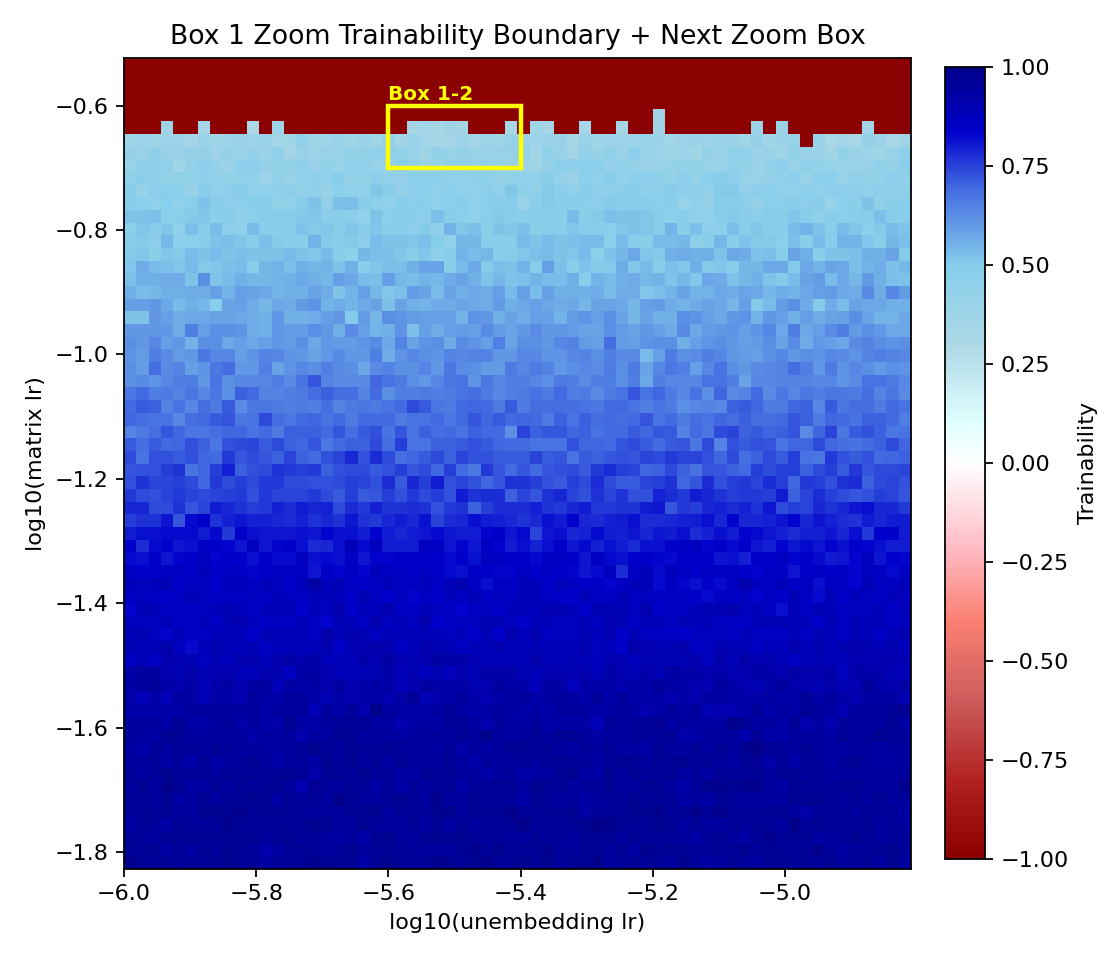
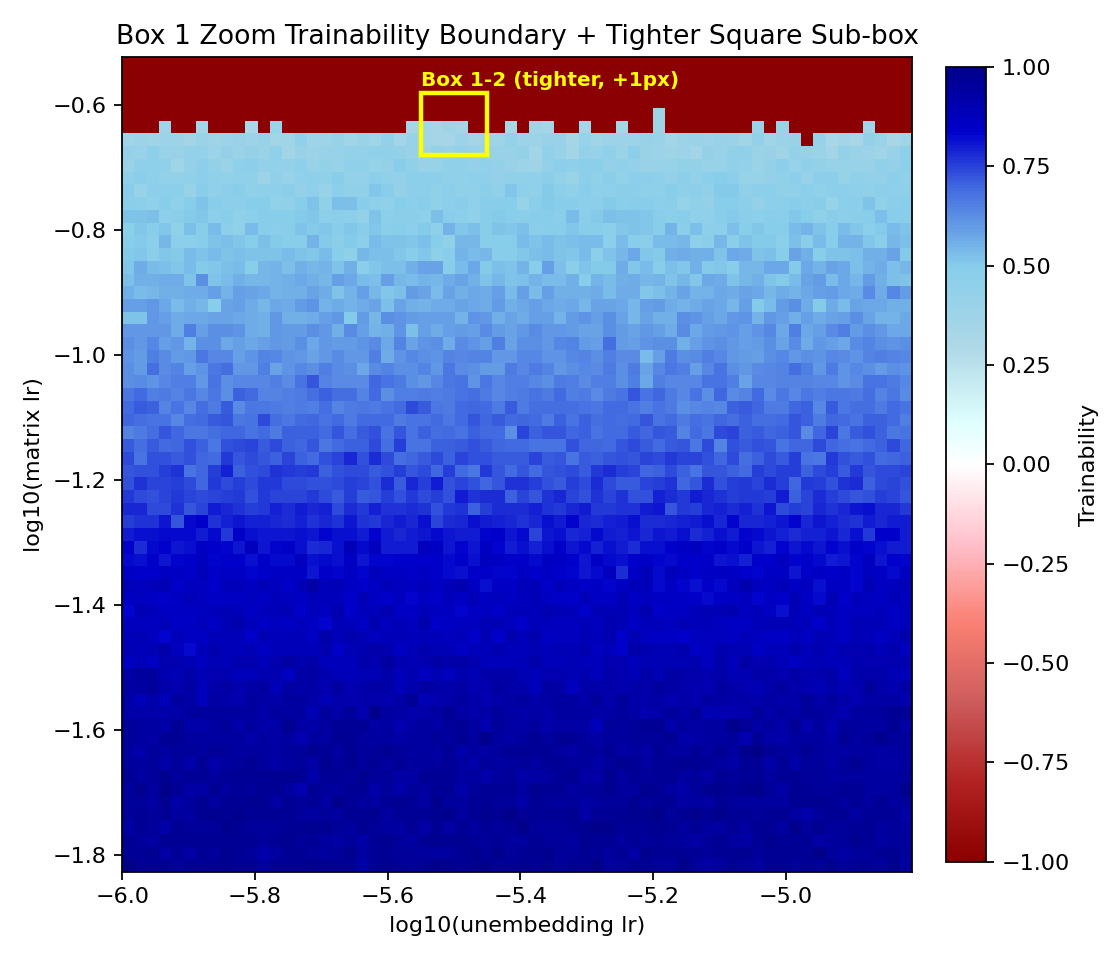
Refine box 1-2 zoom coordinates

diff --git a/RESEARCH_AND_RESULTS.md b/RESEARCH_AND_RESULTS.md
@@ -142,10 +142,11 @@ Targeted sub-box to zoom further into the Box 1 boundary region.
 | **Run Prefix / Sweep ID** | `64x64_box_1-2` |
 | **Axes Swept** | Matrix LR × Unembedding LR |
 | **Resolution** | 64×64 |
-| **Matrix LR Range (log10)** | -0.7 → -0.6 |
-| **Matrix LR Range (linear)** | 1.995e-1 → 2.512e-1 |
-| **Unembedding LR Range (log10)** | -5.6 → -5.4 |
-| **Unembedding LR Range (linear)** | 2.512e-6 → 3.981e-6 |
+| **Matrix LR Range (log10)** | -0.6793 → -0.5793 |
+| **Matrix LR Range (linear)** | 2.093e-1 → 2.634e-1 |
+| **Unembedding LR Range (log10)** | -5.55 → -5.45 |
+| **Unembedding LR Range (linear)** | 2.818e-6 → 3.548e-6 |
+| **Notes** | Square in log10; shifted up by +1 grid pixel in matrix LR |
 | **Trainable Params** | matrix + unembedding |
 
 ![Box 1 zoom with next sub-box](results/figures/64x64_box_1_zoom_next_box.png)
